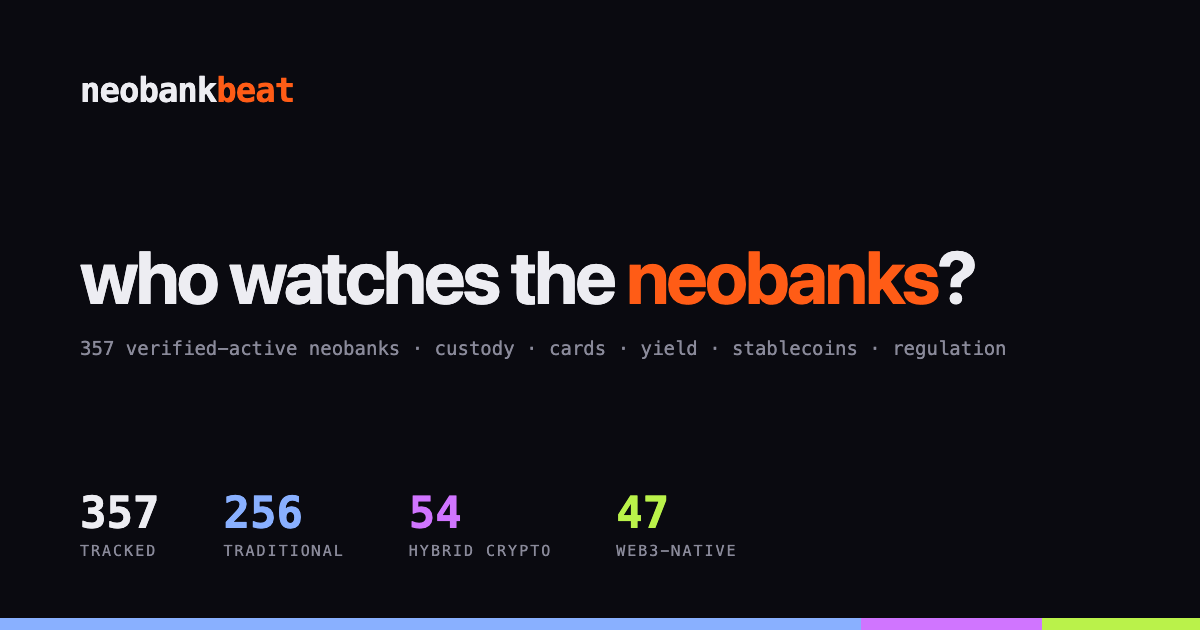
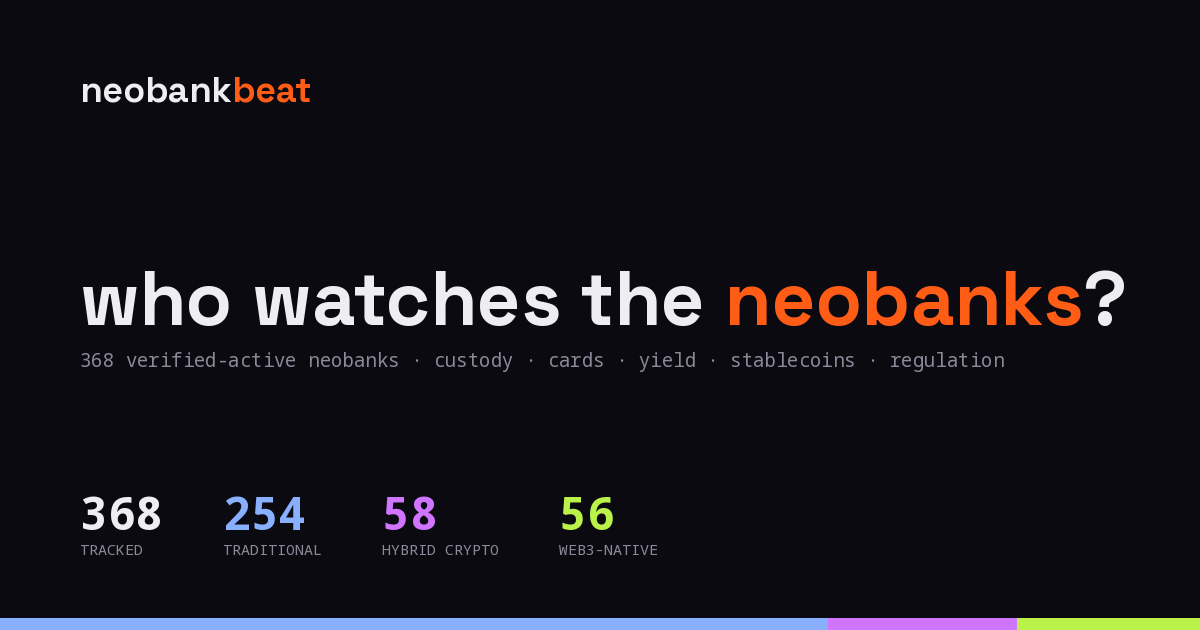
feat: country-availability filter + BaaS-rail search + fix stale OG (368)
- Homepage og.png regenerated from live data.json counts (was 357/256/54/47,
  now 368/254/58/56); new tests/gen-og-home.py so it can never drift again.
- New country filter in the directory (79 countries, verified V[].cc only,
  strict = no false positives), with URL + active-chip sync.
- Licence/partner-bank text now searchable (Bogdan's BaaS point): searching
  'solaris', 'bancorp', 'cross river' surfaces who runs on which rail.

diff --git a/index.html b/index.html
@@ -2134,6 +2134,9 @@ function regTypeOf(r){
   return"Other / mixed";
 }
 let regF="";
+let countryF="";
+/* countries an entity is verified available in (V[].cc); [] when unknown → strict filter, no false positives */
+function countriesOf(r){return ((typeof V!=="undefined"&&V[r[0]])||{}).cc||[]}
 (function buildRegFilter(){
   const counts={};D.forEach(r=>{const k=regTypeOf(r);counts[k]=(counts[k]||0)+1});
   const opts=Object.entries(counts).sort((a,b)=>b[1]-a[1])
@@ -2160,8 +2163,9 @@ function matches(r){
   if(wantAI&&!(X[name]||{}).ai)return false;
   if(mapFilter&&!macrosOf(r).includes(mapFilter))return false;
   if(regF&&regTypeOf(r)!==regF)return false;
+  if(countryF&&!countriesOf(r).includes(countryF))return false;
   if(q){
-    const hay=(name+" "+CATNAME[c]+" "+reg+" "+hq+" "+CUST[cu]+" "+nw+" "+ct+" "+cb+" "+y+" "+KYC[kyc]+" "+NICHE[ni]+" "+regTypeOf(r)+" "+note+((X[name]||{}).ai?" ai "+X[name].ai:"")).toLowerCase();
+    const hay=(name+" "+CATNAME[c]+" "+reg+" "+hq+" "+CUST[cu]+" "+nw+" "+ct+" "+cb+" "+y+" "+KYC[kyc]+" "+NICHE[ni]+" "+regTypeOf(r)+" "+note+" "+countriesOf(r).join(" ")+" "+((X[name]||{}).l||"")+((X[name]||{}).ai?" ai "+X[name].ai:"")).toLowerCase();
     if(!hay.includes(q))return false;
   }
   return true;
@@ -2284,6 +2288,7 @@ function updateActiveBar(){
   if(custody)add("custody: "+custody.toLowerCase(),()=>{custody="";document.getElementById('f-custody').selectedIndex=0});
   if(net)add("card: "+(net==="—"?"wallet-only":net),()=>{net="";document.getElementById('f-net').selectedIndex=0});
   if(regF)add("regulation: "+regF.toLowerCase(),()=>{regF="";document.getElementById('f-reg').selectedIndex=0});
+  if(countryF)add("country: "+countryF,()=>{countryF="";const s=document.getElementById('f-country');if(s)s.selectedIndex=0});
   if(wantYield)add("offers yield",()=>{wantYield=false;document.getElementById('f-yield').checked=false;document.getElementById('lb-yield').classList.remove('on')});
   if(wantStable)add("stablecoins",()=>{wantStable=false;document.getElementById('f-stable').checked=false;document.getElementById('lb-stable').classList.remove('on')});
   if(wantNoKyc)add("no-KYC",()=>{wantNoKyc=false;document.getElementById('f-nokyc').checked=false;document.getElementById('lb-nokyc').classList.remove('on')});
@@ -2292,7 +2297,7 @@ function updateActiveBar(){
   bar.innerHTML='<span class="ab-label">active filters</span>'+chips.map((c,i)=>'<button class="fchip" data-i="'+i+'">'+esc(c.label)+' <i>✕</i></button>').join("")+'<button class="clear" id="ab-clear">clear all</button>';
   bar.querySelectorAll('.fchip').forEach(b=>b.addEventListener('click',()=>{chips[+b.dataset.i].fn();render()}));
   const ac=document.getElementById('ab-clear');
-  if(ac)ac.addEventListener('click',()=>{clearAll();if(mapFilter)setMap(mapFilter);regF="";const fr=document.getElementById('f-reg');if(fr)fr.selectedIndex=0;render()});
+  if(ac)ac.addEventListener('click',()=>{clearAll();if(mapFilter)setMap(mapFilter);regF="";countryF="";const fr=document.getElementById('f-reg');if(fr)fr.selectedIndex=0;const fc=document.getElementById('f-country');if(fc)fc.selectedIndex=0;render()});
 }
 
 /* redefine render(): same grid, plus active-filter bar sync */
@@ -3437,6 +3442,22 @@ render();
 <script>
 /* ═══ v14 LAYER · shareable filter URLs + "/" search shortcut ═══ */
 (function shareableFilters(){
+  /* v15 · country-availability filter — uses verified V[].cc, strict (no false positives) */
+  (function buildCountryFilter(){
+    const cnt={};
+    D.forEach(r=>{((V[r[0]]||{}).cc||[]).forEach(c=>{cnt[c]=(cnt[c]||0)+1})});
+    const names=Object.keys(cnt).sort((a,b)=>a.localeCompare(b));
+    if(!names.length)return;
+    const opts=names.map(c=>'<option value="'+c+'">country: '+c+' ('+cnt[c]+')</option>').join("");
+    const sep=document.getElementById('sep-toggles');
+    if(sep)sep.insertAdjacentHTML('beforebegin','<select id="f-country" aria-label="Country availability"><option value="">country: available in…</option>'+opts+'</select>');
+    const sel=document.getElementById('f-country');
+    if(sel)sel.addEventListener('change',e=>{countryF=e.target.value;render()});
+    const ca=document.getElementById('clearall');
+    if(ca)ca.addEventListener('click',()=>{countryF="";if(sel)sel.selectedIndex=0});
+    const nd=document.getElementById('navdir');
+    if(nd)nd.addEventListener('click',()=>{countryF="";if(sel)sel.selectedIndex=0});
+  })();
   /* write the active filter state into the query string (directory view only) */
   const _render_v14=render;
   render=function(){
@@ -3449,6 +3470,7 @@ render();
     if(custody)p.set('custody',custody);
     if(net)p.set('net',net);
     if(typeof regF!=="undefined"&&regF)p.set('reg',regF);
+    if(typeof countryF!=="undefined"&&countryF)p.set('country',countryF);
     if(wantYield)p.set('y','1');
     if(wantStable)p.set('s','1');
     if(wantNoKyc)p.set('nk','1');
@@ -3464,7 +3486,7 @@ render();
   const p=new URLSearchParams(location.search);
   if(p.get('cat')){const el=document.querySelector('.pill[data-cat="'+p.get('cat')+'"]');if(el)el.click();}
   if(p.get('q')){const qi=document.getElementById('q');qi.value=p.get('q');qi.dispatchEvent(new Event('input',{bubbles:true}));}
-  [['niche','f-niche'],['region','f-region'],['custody','f-custody'],['net','f-net'],['reg','f-reg'],['sort','sort']].forEach(([k,id])=>{
+  [['niche','f-niche'],['region','f-region'],['custody','f-custody'],['net','f-net'],['reg','f-reg'],['country','f-country'],['sort','sort']].forEach(([k,id])=>{
     const v=p.get(k);if(!v)return;
     const s=document.getElementById(id);if(!s)return;
     s.value=v;s.dispatchEvent(new Event('change',{bubbles:true}));

diff --git a/tests/og-template.html b/tests/og-template.html
@@ -13,21 +13,21 @@ body{width:1200px;height:630px;background:#0A0A10;color:#EDEDF2;font-family:'Men
 .stat .l{font-size:15px;color:#8A8A9A;text-transform:uppercase;letter-spacing:2px;margin-top:4px}
 .t{color:#89B0FF}.h{color:#D075FF}.w{color:#BAF24A}
 .bar{position:absolute;left:0;right:0;bottom:0;height:12px;display:flex}
-.bar div:nth-child(1){flex:256;background:#89B0FF}
-.bar div:nth-child(2){flex:54;background:#D075FF}
-.bar div:nth-child(3){flex:47;background:#BAF24A}
+.bar div:nth-child(1){flex:254;background:#89B0FF}
+.bar div:nth-child(2){flex:58;background:#D075FF}
+.bar div:nth-child(3){flex:56;background:#BAF24A}
 </style></head><body>
 <div class="wrap">
   <div class="logo">neobank<span class="dot">beat</span></div>
   <div>
     <div class="h1">who watches the <em>neobanks</em>?</div>
-    <div class="sub">358 verified-active neobanks · custody · cards · yield · stablecoins · regulation</div>
+    <div class="sub">368 verified-active neobanks · custody · cards · yield · stablecoins · regulation</div>
   </div>
   <div class="stats">
-    <div class="stat"><div class="n">358</div><div class="l">tracked</div></div>
-    <div class="stat t"><div class="n">256</div><div class="l">traditional</div></div>
-    <div class="stat h"><div class="n">54</div><div class="l">hybrid crypto</div></div>
-    <div class="stat w"><div class="n">47</div><div class="l">web3-native</div></div>
+    <div class="stat"><div class="n">368</div><div class="l">tracked</div></div>
+    <div class="stat t"><div class="n">254</div><div class="l">traditional</div></div>
+    <div class="stat h"><div class="n">58</div><div class="l">hybrid crypto</div></div>
+    <div class="stat w"><div class="n">56</div><div class="l">web3-native</div></div>
   </div>
 </div>
 <div class="bar"><div></div><div></div><div></div></div>

diff --git a/tests/gen-og-home.py b/tests/gen-og-home.py
@@ -1,0 +1,88 @@
+#!/usr/bin/env python3
+"""Regenerate the homepage social card  ->  ../og.png  (1200x630).
+
+Counts are read live from ../data.json so the card can never drift from the
+dataset again. Deterministic output (no timestamps).
+Run from repo root:  /tmp/nbchart-venv/bin/python tests/gen-og-home.py
+Requires: pillow, fonttools, brotli.
+"""
+import json
+from pathlib import Path
+from PIL import Image, ImageDraw, ImageFont
+
+ROOT = Path(__file__).resolve().parent.parent
+W, H = 1200, 630
+BG = "#0A0A10"
+TEXT = "#EDEDF2"
+DIM = "#8A8A9A"
+ACCENT = "#FF5C16"
+BLUE, PURPLE, GREEN = "#89B0FF", "#D075FF", "#BAF24A"
+
+# ── fonts: convert repo woff2 -> ttf once ──
+FDIR = Path("/tmp/nb-og-fonts"); FDIR.mkdir(exist_ok=True)
+def ttf(name):
+    out = FDIR / (name + ".ttf")
+    if not out.exists():
+        from fontTools.ttLib import TTFont
+        f = TTFont(ROOT / "fonts" / (name + ".woff2")); f.flavor = None; f.save(out)
+    return str(out)
+
+SG, MONO = ttf("space-grotesk"), ttf("noto-sans-mono")
+def sg(size, bold=True):
+    f = ImageFont.truetype(SG, size)
+    try: f.set_variation_by_axes([700 if bold else 500])
+    except Exception: pass
+    return f
+def mono(size, bold=False):
+    f = ImageFont.truetype(MONO, size)
+    try: f.set_variation_by_axes([700 if bold else 400])
+    except Exception: pass
+    return f
+def tw(d, txt, font): return d.textbbox((0, 0), txt, font=font)[2]
+
+c = json.loads((ROOT / "data.json").read_text())["meta"]["counts"]
+total = json.loads((ROOT / "data.json").read_text())["meta"]["total"]
+trad, hyb, web3 = c["traditional"], c["hybrid"], c["web3_native"]
+
+im = Image.new("RGB", (W, H), BG)
+d = ImageDraw.Draw(im)
+MARG = 80
+
+# logo (top-left)
+lf = sg(36)
+d.text((MARG, 66), "neobank", font=lf, fill=TEXT)
+d.text((MARG + tw(d, "neobank", lf), 66), "beat", font=lf, fill=ACCENT)
+
+# headline
+h1 = sg(76)
+y = 250
+x = MARG
+for word, col in [("who ", TEXT), ("watches ", TEXT), ("the ", TEXT), ("neobanks", ACCENT), ("?", TEXT)]:
+    d.text((x, y), word, font=h1, fill=col)
+    x += tw(d, word, h1)
+sub = mono(19)
+d.text((MARG, y + 96), f"{total} verified-active neobanks \u00b7 custody \u00b7 cards \u00b7 yield \u00b7 stablecoins \u00b7 regulation",
+       font=sub, fill=DIM)
+
+# stats row
+stats = [(str(total), "tracked", TEXT), (str(trad), "traditional", BLUE),
+         (str(hyb), "hybrid crypto", PURPLE), (str(web3), "web3-native", GREEN)]
+nf, lf2 = mono(46, bold=True), mono(15)
+sx, sy = MARG, H - 150
+for n, lab, col in stats:
+    d.text((sx, sy), n, font=nf, fill=col)
+    d.text((sx, sy + 58), lab.upper(), font=lf2, fill=DIM)
+    sx += max(tw(d, n, nf), tw(d, lab.upper(), lf2)) + 60
+
+# bottom spectrum bar, weighted by category counts
+bh, tot = 12, trad + hyb + web3
+x = 0
+for flex, col in [(trad, BLUE), (hyb, PURPLE), (web3, GREEN)]:
+    wpx = round(W * flex / tot)
+    d.rectangle([x, H - bh, x + wpx, H], fill=col)
+    x += wpx
+d.rectangle([x, H - bh, W, H], fill=GREEN)
+
+out = ROOT / "og.png"
+im.save(out, "PNG", optimize=True)
+print(f"wrote {out} \u2014 {total}/{trad}/{hyb}/{web3}")